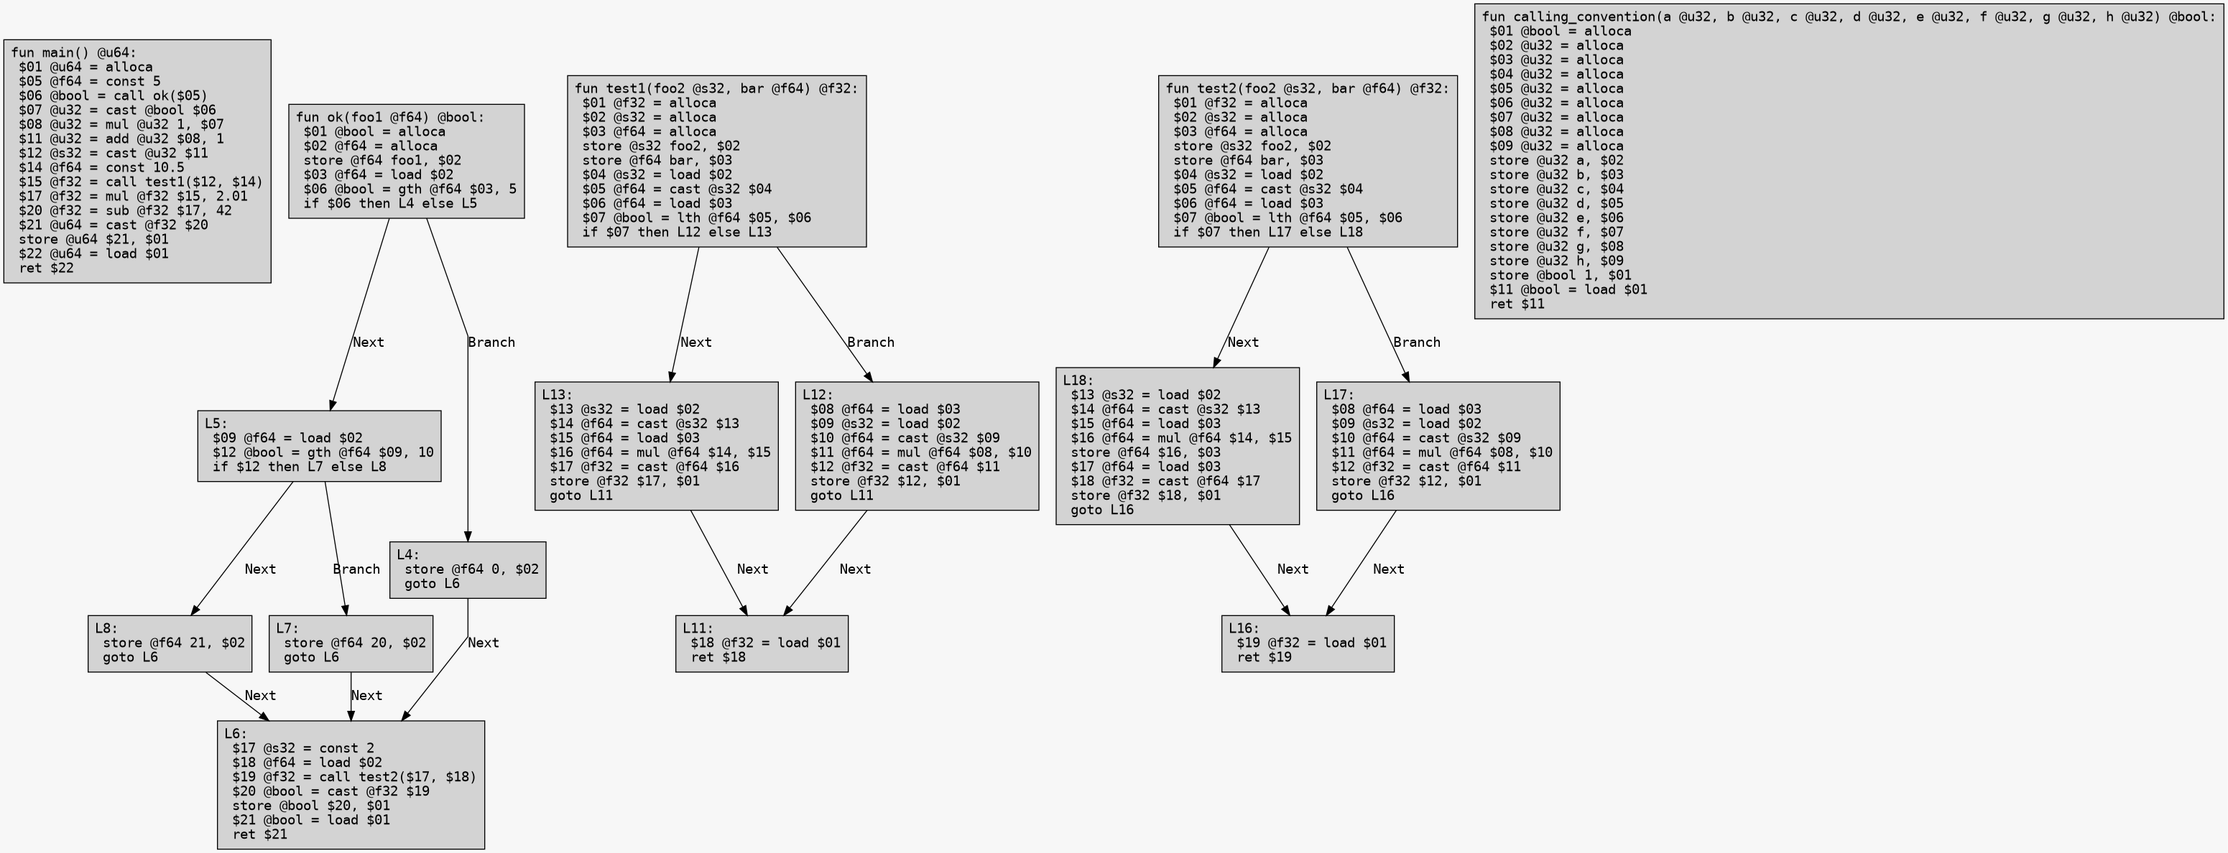
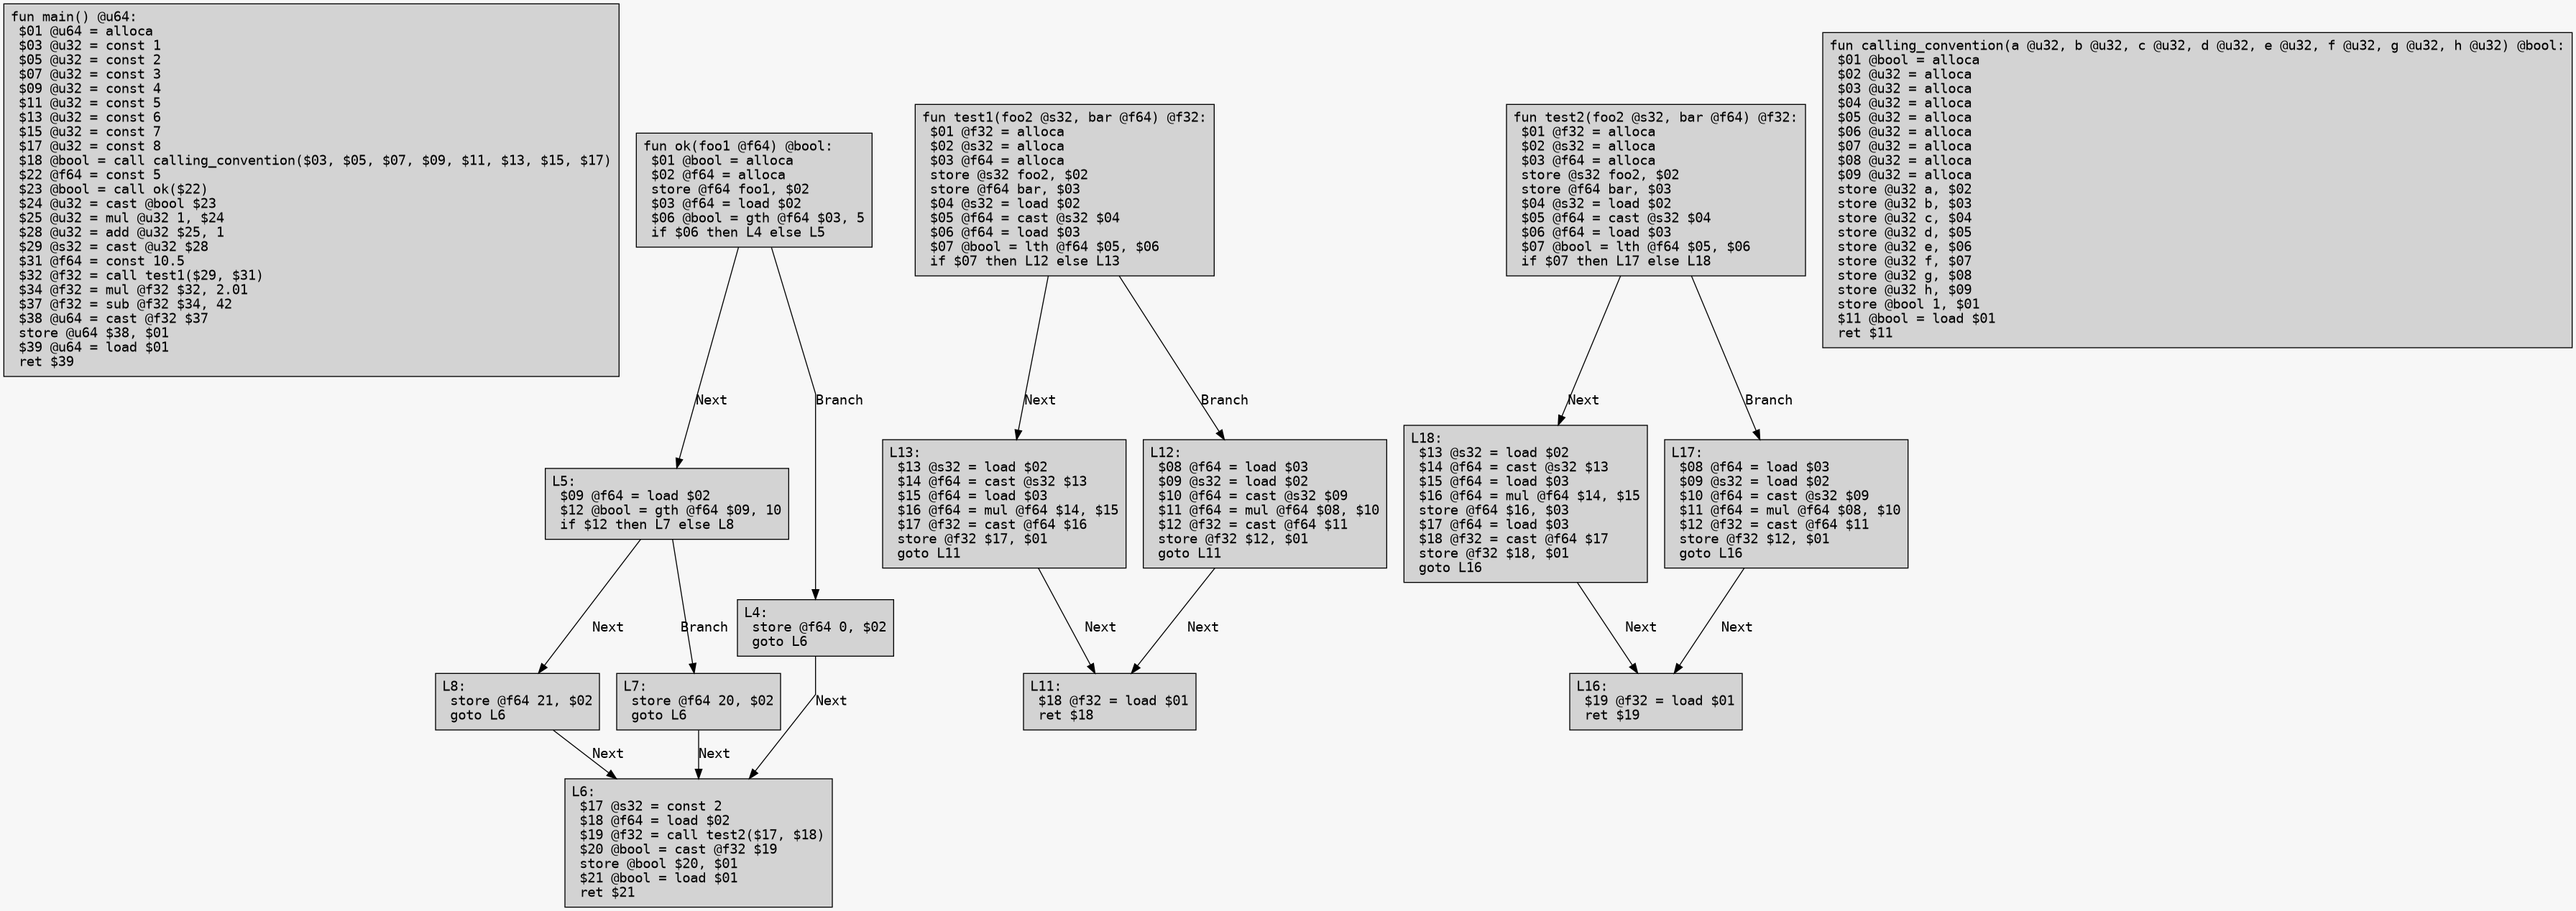
Working on the calling convention

diff --git a/src/x86_64/mapper.cpp b/src/x86_64/mapper.cpp
@@ -1,6 +1,5 @@
 #include "x86_64/mapper.hpp"
 
-#include <cassert>
 #include <array>
 
 #include "utils/utils.hpp"
@@ -41,7 +40,7 @@ Operand Mapper::operator[](const il::Operand &operand) {
 }
 
 void Mapper::visit(il::Function &function) {
-    auto int_parameters = int_register_parameters(function.parameters());
+    auto int_parameters = get_int_parameters(function.parameters());
     for (size_t index = 0; index < int_parameters.size(); index++) {
         auto &parameter = int_parameters.at(index);
         auto size = parameter.type().size();
@@ -49,7 +48,7 @@ void Mapper::visit(il::Function &function) {
         _add_register(parameter, reg);
     }
 
-    auto sse_parameters = sse_register_parameters(function.parameters());
+    auto sse_parameters = get_see_parameters(function.parameters());
     for (size_t index = 0; index < sse_parameters.size(); index++) {
         auto &parameter = sse_parameters.at(index);
         auto size = parameter.type().size();
@@ -57,12 +56,13 @@ void Mapper::visit(il::Function &function) {
         _add_register(parameter, reg);
     }
 
-    auto stack_parameters = stack_parameters(function.parameters());
-    size_t parameter_offset = 16 + (stack_parameters.size() * 8);
+    size_t parameter_offset = 16;
+    auto stack_parameters = get_stack_parameters(function.parameters());
     for (auto &parameter: stack_parameters) {
         auto size = parameter.type().size();
-        _mappings[parameter] = Memory(size, RBP, (int64_t) parameter_offset);
-        parameter_offset -= 8;
+        auto memory = Memory(size, RBP, (int64_t) parameter_offset);
+        _add_memory(parameter, memory);
+        parameter_offset += 8;
     }
 
     for (auto &block: function) {
@@ -72,7 +72,7 @@ void Mapper::visit(il::Function &function) {
     int64_t local_offset = -8;
     for (auto &variable: _locals) {
         auto size = variable.type().size();
-        _mappings[variable] = Memory(size, RBP, local_offset);
+        _mappings.emplace(variable, Memory(size, RBP, local_offset));
         local_offset -= (int64_t) size_to_bytes(size);
     }
 }
@@ -102,27 +102,30 @@ void Mapper::visit(il::Call &instruction) {
     // Set the result register to the right
     _add_register(instruction.result(), result_reg);
 
-    auto int_parameters = int_register_parameters(instruction.arguments());
-    for (size_t index = 0; index < int_parameters.size(); index++) {
-        auto &parameter = int_parameters.at(index);
+    auto int_arguments = get_int_parameters(instruction.arguments());
+    for (size_t index = 0; index < int_arguments.size(); index++) {
+        auto &parameter = int_arguments.at(index);
         auto size = parameter.type().size();
         auto reg = Register(INT_REG_ORDER[index], size);
         _add_register(parameter, reg);
     }
 
-    auto sse_parameters = sse_register_parameters(instruction.arguments());
-    for (size_t index = 0; index < sse_parameters.size(); index++) {
-        auto &parameter = sse_parameters.at(index);
+    auto sse_arguments = get_see_parameters(instruction.arguments());
+    for (size_t index = 0; index < sse_arguments.size(); index++) {
+        auto &parameter = sse_arguments.at(index);
         auto size = parameter.type().size();
         auto reg = Register(SSE_REG_ORDER[index], size);
         _add_register(parameter, reg);
     }
 
-    auto stack_parameters = stack_parameters(instruction.arguments());
-    size_t parameter_offset = 0;
-    for (auto &parameter: stack_parameters) {
+    auto stack_arguments = get_stack_parameters(instruction.arguments());
+    std::reverse(stack_arguments.begin(), stack_arguments.end());
+
+    size_t parameter_offset = -8;
+    for (auto &parameter: stack_arguments) {
         auto size = parameter.type().size();
-        _mappings[parameter] = Memory(size, RSP, (int64_t) parameter_offset);
+        auto memory = Memory(size, RSP, (int64_t) parameter_offset);
+        _add_memory(parameter, memory);
         parameter_offset -= 8;
     }
 }
@@ -153,9 +156,14 @@ void Mapper::visit(il::Constant &instruction) {
     _add_stack(instruction.result());
 }
 
-void Mapper::_add_register(const il::Variable &variable, Register reg) {
+void Mapper::_add_register(const il::Variable &variable, const Register &reg) {
     _locals.erase(variable);
-    _mappings[variable] = reg;
+    _mappings.emplace(variable, reg);
+}
+
+void Mapper::_add_memory(const il::Variable &variable, const Memory &memory) {
+    _locals.erase(variable);
+    _mappings.emplace(variable, memory);
 }
 
 void Mapper::_add_stack(const il::Variable &variable) {
@@ -170,13 +178,10 @@ size_t Mapper::stack_size() const {
         stack_size += size;
     }
 
-    static const size_t STACK_ALIGNMENT = 16;
-    stack_size = (stack_size + (STACK_ALIGNMENT - 1)) & ~(STACK_ALIGNMENT - 1);
-
-    return stack_size;
+    return align_size(stack_size);
 }
 
-std::vector<il::Variable> Mapper::int_register_parameters(const std::vector<il::Variable> &parameters) {
+std::vector<il::Variable> Mapper::get_int_parameters(const std::vector<il::Variable> &parameters) {
     std::vector<il::Variable> result;
 
     for (auto &parameter: parameters) {
@@ -188,7 +193,7 @@ std::vector<il::Variable> Mapper::int_register_parameters(const std::vector<il::
     return result;
 }
 
-std::vector<il::Variable> Mapper::sse_register_parameters(const std::vector<il::Variable> &parameters) {
+std::vector<il::Variable> Mapper::get_see_parameters(const std::vector<il::Variable> &parameters) {
     std::vector<il::Variable> result;
 
     for (auto &parameter: parameters) {
@@ -200,7 +205,7 @@ std::vector<il::Variable> Mapper::sse_register_parameters(const std::vector<il::
     return result;
 }
 
-std::vector<il::Variable> Mapper::stack_parameters(const std::vector<il::Variable> &parameters) {
+std::vector<il::Variable> Mapper::get_stack_parameters(const std::vector<il::Variable> &parameters) {
     std::vector<il::Variable> result;
 
     size_t int_parameters = 0, sse_parameters = 0;
@@ -220,10 +225,12 @@ std::vector<il::Variable> Mapper::stack_parameters(const std::vector<il::Variabl
         }
     }
 
-    // Reverse the parameters that will be passed on the stack
-    std::reverse(result.begin(), result.end());
-
     return result;
+}
+
+size_t Mapper::align_size(size_t input) {
+    static const size_t STACK_ALIGNMENT = 16;
+    return (input + (STACK_ALIGNMENT - 1)) & ~(STACK_ALIGNMENT - 1);
 }
 
 std::ostream &operator<<(std::ostream &os, const Operand &mapping) {

diff --git a/include/x86_64/mapper.hpp b/include/x86_64/mapper.hpp
@@ -9,7 +9,7 @@
 
 namespace arkoi::x86_64 {
 
-using Operand = std::variant<std::monostate, Memory, Register, il::Immediate>;
+using Operand = std::variant<Memory, Register, il::Immediate>;
 
 class Mapper : il::Visitor {
 public:
@@ -21,11 +21,13 @@ public:
 
     [[nodiscard]] size_t stack_size() const;
 
-    [[nodiscard]] static std::vector<il::Variable> int_register_parameters(const std::vector<il::Variable> &parameters);
+    [[nodiscard]] static std::vector<il::Variable> get_int_parameters(const std::vector<il::Variable> &parameters);
 
-    [[nodiscard]] static std::vector<il::Variable> sse_register_parameters(const std::vector<il::Variable> &parameters);
+    [[nodiscard]] static std::vector<il::Variable> get_see_parameters(const std::vector<il::Variable> &parameters);
 
-    [[nodiscard]] static std::vector<il::Variable> stack_parameters(const std::vector<il::Variable> &parameters);
+    [[nodiscard]] static std::vector<il::Variable> get_stack_parameters(const std::vector<il::Variable> &parameters);
+
+    [[nodiscard]] static size_t align_size(size_t input);
 
 private:
     void visit(il::Module &) override {}
@@ -56,7 +58,9 @@ private:
 
     void visit(il::Constant &instruction) override;
 
-    void _add_register(const il::Variable &variable, Register reg);
+    void _add_register(const il::Variable &variable, const Register &reg);
+
+    void _add_memory(const il::Variable &variable, const Memory &memory);
 
     void _add_stack(const il::Variable &variable);
 

diff --git a/src/x86_64/generator.cpp b/src/x86_64/generator.cpp
@@ -94,9 +94,20 @@ void Generator::visit(il::Cast &) {}
 void Generator::visit(il::Call &instruction) {
     // instruction.result() is unnecessary because the mapper always assigns the destination to either the XMM0 register
     // for floating-point values or the RDI register for integers.
-    // instruction.arguments() is also not needed, as the mapper maps each argument variable to the appropriate register.
+
+    auto stack_arguments = Mapper::get_stack_parameters(instruction.arguments());
+    auto stack_adjust = 8 * stack_arguments.size();
+    stack_adjust = Mapper::align_size(stack_adjust);
+
+    if (stack_adjust) {
+        _text << "\tsub rsp, " << stack_adjust << "\n";
+    }
 
     _text << "\tcall " << instruction.name() << "\n";
+
+    if (stack_adjust) {
+        _text << "\tadd rsp, " << stack_adjust << "\n";
+    }
 }
 
 void Generator::visit(il::If &) {}
